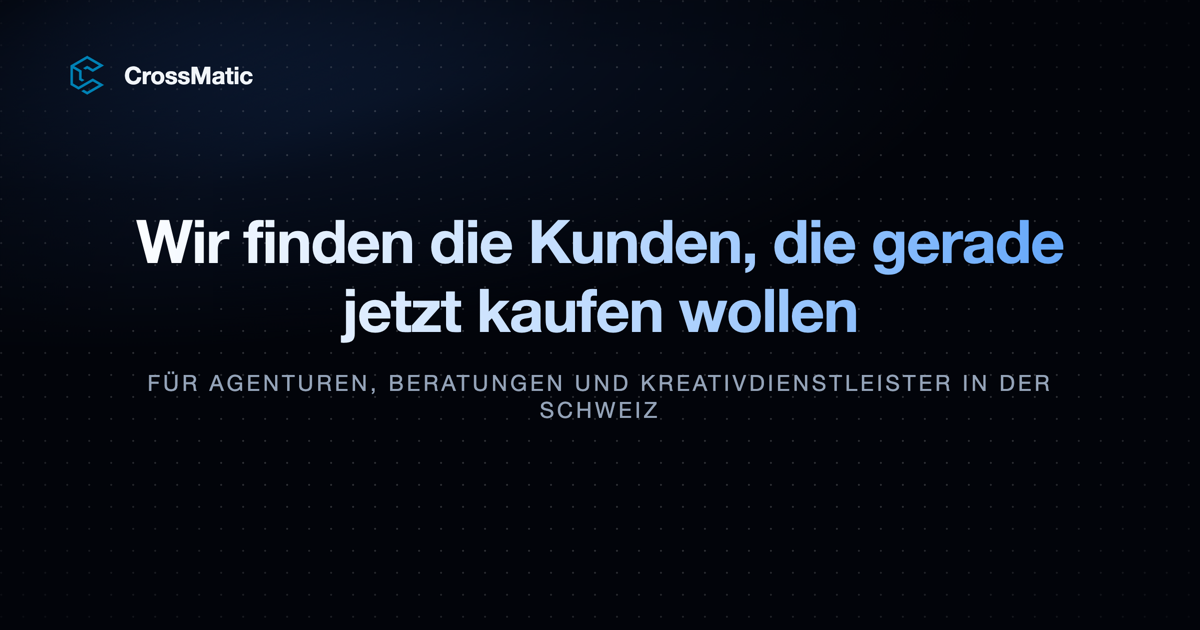
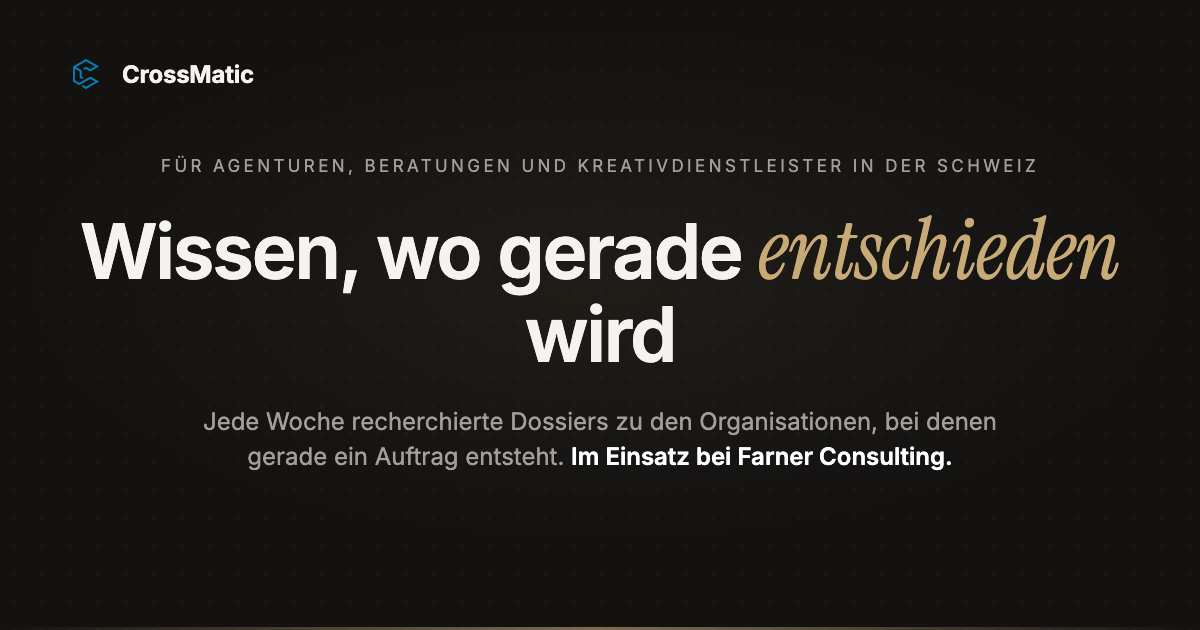
text update

diff --git a/src/pages/Index.tsx b/src/pages/Index.tsx
@@ -89,7 +89,7 @@ const services = [
       "Ausgangslage und Hintergrund des Unternehmens",
       "Warum Sie gerade jetzt relevant sind",
       "Fertiger Aufhänger für die Erstansprache",
-      "Prüfhinweise: wir kennzeichnen, was nicht gesichert ist",
+      "Jede Angabe belegt, Unsicheres offen gekennzeichnet",
       "Wöchentliche Lieferung, nach drei Monaten monatlich kündbar",
     ],
     footer: "Ideal für: Beratungen, Agenturen und Kreativdienstleister, die gezielt akquirieren wollen und wissen möchten, bei wem sich der Aufwand gerade lohnt. Ob Sie die Dossiers selbst nutzen oder an Ihr Team weitergeben.",
@@ -447,7 +447,7 @@ const caseStudiesDe: CaseStudy[] = [
     title: "5 gebuchte Gespräche in 2 Wochen",
     titleAccent: "Gespräche",
     role: "Gian Besset Brand Design · Grafik & Webdesign, Basel",
-    text: "Gian Besset wollte planbar neue Kunden gewinnen, unabhängig von Empfehlungen. Wir bauten ein automatisiertes E-Mail-System für Physio- und Tierarztpraxen in der Schweiz, jede Nachricht auf die einzelne Praxis zugeschnitten. Nach zwei Wochen wurde die Kampagne pausiert, nicht wegen mangelnder Ergebnisse, sondern weil die Anfragen die Kapazität überstiegen.",
+    text: "Gian Besset wollte planbar neue Kunden gewinnen, unabhängig von Empfehlungen. Wir bauten ein automatisiertes E-Mail-System für Physio- und Tierarztpraxen in der Schweiz, jede Nachricht auf die einzelne Praxis zugeschnitten. Schon nach zwei Wochen mussten wir die Kampagne pausieren, nicht wegen mangelnder Ergebnisse, sondern weil die Anfragen die Kapazität überstiegen. Insgesamt lief sie vier Wochen.",
     metrics: ["18 Interessenten", "4 Wochen Laufzeit", "14 % Antwortrate"],
     image: caseGianReportingImage,
     imageAlt: "Reporting-Ausschnitt der E-Mail-Akquise-Kampagne von Gian Besset",
@@ -474,7 +474,7 @@ const caseStudiesEn: CaseStudy[] = [
     title: "5 booked calls in 2 weeks",
     titleAccent: "calls",
     role: "Gian Besset Brand Design · Graphic & Web Design, Basel",
-    text: "Gian Besset wanted to win new clients predictably, independent of referrals. We built an automated email system for physiotherapy and veterinary clinics in Switzerland, with every message tailored to the individual clinic. After two weeks the campaign was paused, not for lack of results, but because demand exceeded capacity.",
+    text: "Gian Besset wanted to win new clients predictably, independent of referrals. We built an automated email system for physiotherapy and veterinary clinics in Switzerland, with every message tailored to the individual clinic. After just two weeks we had to pause the campaign, not for lack of results, but because demand exceeded capacity. In total it ran for four weeks.",
     metrics: ["18 prospects", "4 weeks runtime", "14% reply rate"],
     imageAlt: "Reporting excerpt from Gian Besset's email outreach campaign",
     quote:
@@ -687,7 +687,7 @@ const Index = () => {
             "Company background and context",
             "Why you're relevant right now",
             "Ready-made hook for the first outreach",
-            "Verification notes: we flag what isn't confirmed",
+            "Every claim sourced, anything uncertain clearly flagged",
             "Weekly delivery, cancel monthly after three months",
           ],
           footer: "Ideal for: consultancies, agencies and creative service providers who want to do targeted outreach and know who is worth the effort right now. Whether you use the dossiers yourself or pass them on to your team.",
@@ -858,23 +858,23 @@ const Index = () => {
 
   useSeo({
     title: isDe
-      ? "CrossMatic | Akquise-Systeme für Agenturen, Beratungen & Kreativdienstleister in der Schweiz"
-      : "CrossMatic | Outbound Systems for Agencies, Consultancies & Creative Service Providers in Switzerland",
+      ? "CrossMatic | Lead Scout – wöchentliche Dossiers für Schweizer Agenturen und Beratungen"
+      : "CrossMatic | Lead Scout – Weekly Dossiers for Swiss Agencies and Consultancies",
     description: isDe
-      ? "Wir finden die Unternehmen, bei denen gerade jetzt ein Anlass besteht, und sprechen die Entscheider persönlich an. Über 30 vermittelte Erstgespräche für Schweizer Dienstleister."
-      : "We find the companies with a real reason to act right now, and reach out to decision-makers directly. Over 30 booked intro calls for Swiss service providers.",
+      ? "Jede Woche recherchierte Dossiers zu den Organisationen, bei denen gerade ein Auftrag entsteht. Jede Angabe mit Quelle belegt. Im Einsatz bei Farner Consulting."
+      : "Researched dossiers every week on the organisations where a new mandate is taking shape right now. Every claim backed by a source. In use at Farner Consulting.",
     ogTitle: isDe
-      ? "CrossMatic | Akquise-Systeme für Agenturen, Beratungen & Kreativdienstleister"
-      : "CrossMatic | Outbound Systems for Agencies, Consultancies & Creative Service Providers",
+      ? "CrossMatic | Lead Scout – wöchentliche Dossiers für Schweizer Agenturen und Beratungen"
+      : "CrossMatic | Lead Scout – Weekly Dossiers for Swiss Agencies and Consultancies",
     ogDescription: isDe
-      ? "Über 30 vermittelte Erstgespräche für Schweizer Dienstleister."
-      : "Over 30 booked intro calls for Swiss service providers.",
+      ? "Jede Woche recherchierte Dossiers zu den Organisationen, bei denen gerade ein Auftrag entsteht. Jede Angabe mit Quelle belegt. Im Einsatz bei Farner Consulting."
+      : "Researched dossiers every week on the organisations where a new mandate is taking shape right now. Every claim backed by a source. In use at Farner Consulting.",
     twitterTitle: isDe
-      ? "CrossMatic | Akquise-Systeme für Agenturen, Beratungen & Kreativdienstleister"
-      : "CrossMatic | Outbound Systems for Agencies, Consultancies & Creative Service Providers",
+      ? "CrossMatic | Lead Scout – wöchentliche Dossiers für Schweizer Agenturen und Beratungen"
+      : "CrossMatic | Lead Scout – Weekly Dossiers for Swiss Agencies and Consultancies",
     twitterDescription: isDe
-      ? "Über 30 vermittelte Erstgespräche für Schweizer Dienstleister."
-      : "Over 30 booked intro calls for Swiss service providers.",
+      ? "Jede Woche recherchierte Dossiers zu den Organisationen, bei denen gerade ein Auftrag entsteht. Jede Angabe mit Quelle belegt. Im Einsatz bei Farner Consulting."
+      : "Researched dossiers every week on the organisations where a new mandate is taking shape right now. Every claim backed by a source. In use at Farner Consulting.",
   });
   const processTimelineData = localizedProcessSteps.map((item) => {
     return {
@@ -1018,7 +1018,7 @@ const Index = () => {
             {[
               { name: "Farner Consulting AG", logo: farnerLogo },
               { name: "Arlicon AG", logo: arliconLogo },
-              { name: "Büro Häberli", logo: bueroHaeberliLogo },
+              { name: "Büro Haeberli", logo: bueroHaeberliLogo },
               { name: "Gian Besset Brand Design", logo: gianBessetLogo },
               { name: "Sascha Völki – Büro für visuelle Konzepte", logo: saschaVoelkiLogo },
             ].map((client, index) => (

diff --git a/index.html b/index.html
@@ -17,17 +17,17 @@
     <link rel="icon" type="image/png" sizes="32x32" href="/favicon-32x32.png" />
     <link rel="icon" type="image/png" sizes="16x16" href="/favicon-16x16.png" />
     <link rel="apple-touch-icon" sizes="180x180" href="/apple-touch-icon.png" />
-    <title>CrossMatic | Akquise-Systeme für Agenturen, Beratungen & Kreativdienstleister in der Schweiz</title>
+    <title>CrossMatic | Lead Scout – wöchentliche Dossiers für Schweizer Agenturen und Beratungen</title>
     <meta
       name="description"
-      content="Wir finden die Unternehmen, bei denen gerade jetzt ein Anlass besteht, und sprechen die Entscheider persönlich an. Über 30 vermittelte Erstgespräche für Schweizer Dienstleister."
+      content="Jede Woche recherchierte Dossiers zu den Organisationen, bei denen gerade ein Auftrag entsteht. Jede Angabe mit Quelle belegt. Im Einsatz bei Farner Consulting."
     />
     <meta name="author" content="CrossMatic" />
 
-    <meta property="og:title" content="CrossMatic | Akquise-Systeme für Agenturen, Beratungen & Kreativdienstleister" />
+    <meta property="og:title" content="CrossMatic | Lead Scout – wöchentliche Dossiers für Schweizer Agenturen und Beratungen" />
     <meta
       property="og:description"
-      content="Über 30 vermittelte Erstgespräche für Schweizer Dienstleister."
+      content="Jede Woche recherchierte Dossiers zu den Organisationen, bei denen gerade ein Auftrag entsteht. Jede Angabe mit Quelle belegt. Im Einsatz bei Farner Consulting."
     />
     <meta property="og:type" content="website" />
     <meta property="og:url" content="https://getcrossmatic.com/" />
@@ -36,10 +36,10 @@
     <meta property="og:image:height" content="630" />
 
     <meta name="twitter:card" content="summary_large_image" />
-    <meta name="twitter:title" content="CrossMatic | Akquise-Systeme für Agenturen, Beratungen & Kreativdienstleister" />
+    <meta name="twitter:title" content="CrossMatic | Lead Scout – wöchentliche Dossiers für Schweizer Agenturen und Beratungen" />
     <meta
       name="twitter:description"
-      content="Über 30 vermittelte Erstgespräche für Schweizer Dienstleister."
+      content="Jede Woche recherchierte Dossiers zu den Organisationen, bei denen gerade ein Auftrag entsteht. Jede Angabe mit Quelle belegt. Im Einsatz bei Farner Consulting."
     />
     <meta name="twitter:image" content="https://getcrossmatic.com/og-image.png" />
   </head>
